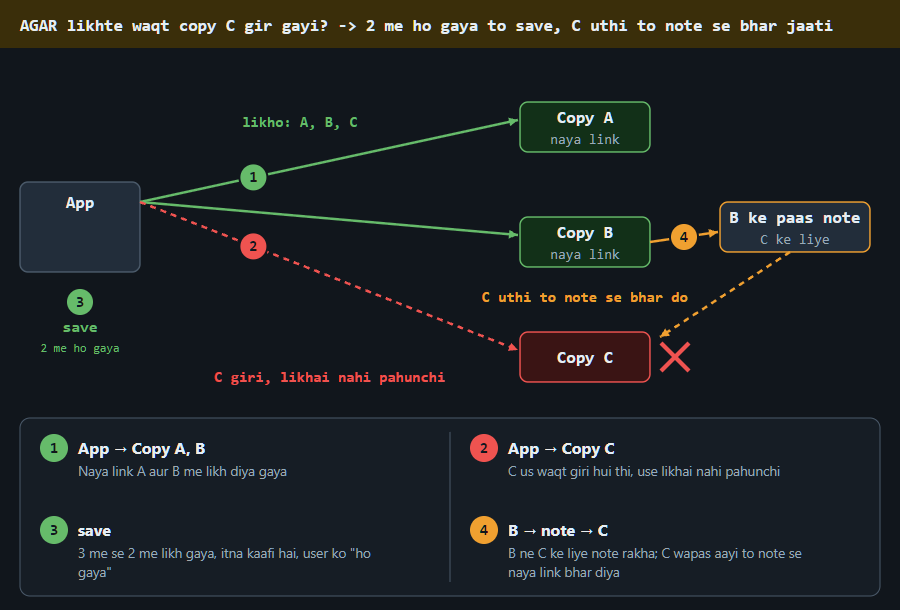
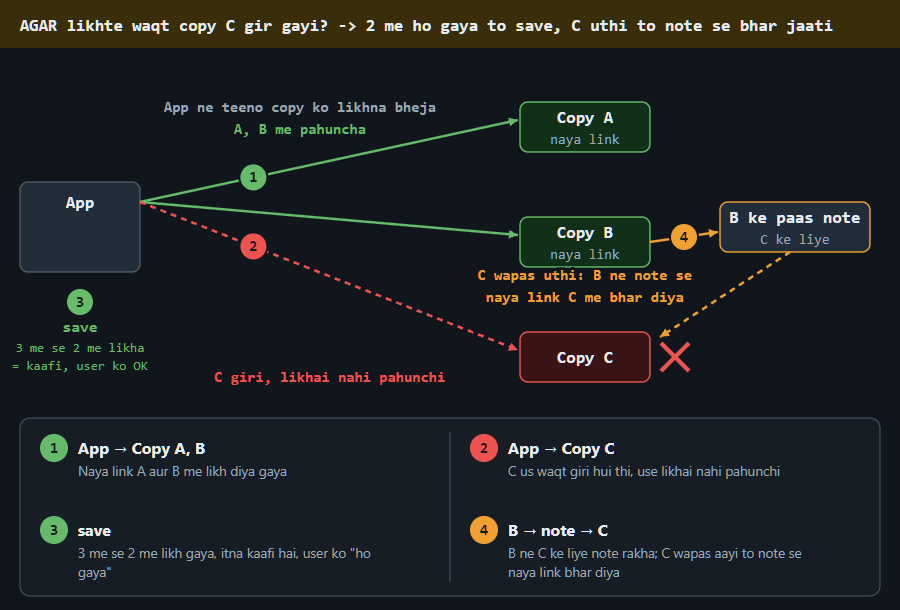
hld url c6 agar: saaf likha (teeno ko bheja, A B me pahuncha, 3 me se 2 = save, C uthi to B ne note se bhara)

Changed region(s): [[0.5289, 0.4361, 0.7778, 0.4984], [0.1867, 0.1557, 0.4978, 0.218], [0.0311, 0.5607, 0.1556, 0.623]]

diff --git a/04_HLD/SYSTEM_DESIGNS/01_url_shortener/img/c6_anim.html b/04_HLD/SYSTEM_DESIGNS/01_url_shortener/img/c6_anim.html
@@ -228,11 +228,11 @@ function frame(ph) {
     L(700, 180, '2 + 2 = 4, copy 3:', C.muted, 'start'); L(700, 200, 'jodi me ek taaza zaroor', C.good, 'start');
   } else {
     app(); copies(['good', 'naya link'], ['good', 'naya link'], ['bad', '']); cross(675, 305);
-    W(0, C.good, 1); W(1, C.good); W(2, C.bad, 2, { dash: 1 }); L(300, 75, 'likho: A, B, C', C.good);
+    W(0, C.good, 1); W(1, C.good); W(2, C.bad, 2, { dash: 1 }); L(300, 60, 'App ne teeno copy ko likhna bheja', C.muted); L(300, 82, 'A, B me pahuncha', C.good);
     L(330, 330, 'C giri, likhai nahi pahunchi', C.bad);
-    num(80, 250, 3, C.good); T(80, 280, 'save', { c: C.good, b: 1, size: 16 }); T(80, 300, '2 me ho gaya', { c: C.good, size: 12 });
+    num(80, 250, 3, C.good); T(80, 280, 'save', { c: C.good, b: 1, size: 16 }); T(80, 300, '3 me se 2 me likha', { c: C.good, size: 13 }); T(80, 318, '= kaafi, user ko OK', { c: C.good, size: 13 });
     B(720, 150, 150, 50, 'B ke paas note', 'C ke liye', { st: 'acc' }); A(650, 190, 718, 180, C.acc, { n: 4 });
-    A(790, 200, 660, 285, C.acc, { dash: 1 }); L(585, 250, 'C uthi to note se bhar do', C.acc);
+    A(790, 200, 660, 285, C.acc, { dash: 1 }); L(585, 228, 'C wapas uthi: B ne note se', C.acc); L(585, 250, 'naya link C me bhar diya', C.acc);
   }
 }
 

diff --git a/04_HLD/SYSTEM_DESIGNS/01_url_shortener/img/c6_anim.js b/04_HLD/SYSTEM_DESIGNS/01_url_shortener/img/c6_anim.js
@@ -33,10 +33,10 @@ function frame(ph) {
     L(700, 180, '2 + 2 = 4, copy 3:', C.muted, 'start'); L(700, 200, 'jodi me ek taaza zaroor', C.good, 'start');
   } else {
     app(); copies(['good', 'naya link'], ['good', 'naya link'], ['bad', '']); cross(675, 305);
-    W(0, C.good, 1); W(1, C.good); W(2, C.bad, 2, { dash: 1 }); L(300, 75, 'likho: A, B, C', C.good);
+    W(0, C.good, 1); W(1, C.good); W(2, C.bad, 2, { dash: 1 }); L(300, 60, 'App ne teeno copy ko likhna bheja', C.muted); L(300, 82, 'A, B me pahuncha', C.good);
     L(330, 330, 'C giri, likhai nahi pahunchi', C.bad);
-    num(80, 250, 3, C.good); T(80, 280, 'save', { c: C.good, b: 1, size: 16 }); T(80, 300, '2 me ho gaya', { c: C.good, size: 12 });
+    num(80, 250, 3, C.good); T(80, 280, 'save', { c: C.good, b: 1, size: 16 }); T(80, 300, '3 me se 2 me likha', { c: C.good, size: 13 }); T(80, 318, '= kaafi, user ko OK', { c: C.good, size: 13 });
     B(720, 150, 150, 50, 'B ke paas note', 'C ke liye', { st: 'acc' }); A(650, 190, 718, 180, C.acc, { n: 4 });
-    A(790, 200, 660, 285, C.acc, { dash: 1 }); L(585, 250, 'C uthi to note se bhar do', C.acc);
+    A(790, 200, 660, 285, C.acc, { dash: 1 }); L(585, 228, 'C wapas uthi: B ne note se', C.acc); L(585, 250, 'naya link C me bhar diya', C.acc);
   }
 }

diff --git a/04_HLD/SYSTEM_DESIGNS/01_url_shortener/01_url_shortener.md b/04_HLD/SYSTEM_DESIGNS/01_url_shortener/01_url_shortener.md
@@ -235,11 +235,11 @@ Cue: QUORUM (2 me likho, 2 se padho)
 
 <details><summary>kahani dekho (3 scene)</summary>
 
-<img src="img/c6_1.png?v=4" width="900">
+<img src="img/c6_1.png?v=5" width="900">
 
-<img src="img/c6_2.png?v=4" width="900">
+<img src="img/c6_2.png?v=5" width="900">
 
-<img src="img/c6_3.png?v=4" width="900">
+<img src="img/c6_3.png?v=5" width="900">
 
 </details>
 
